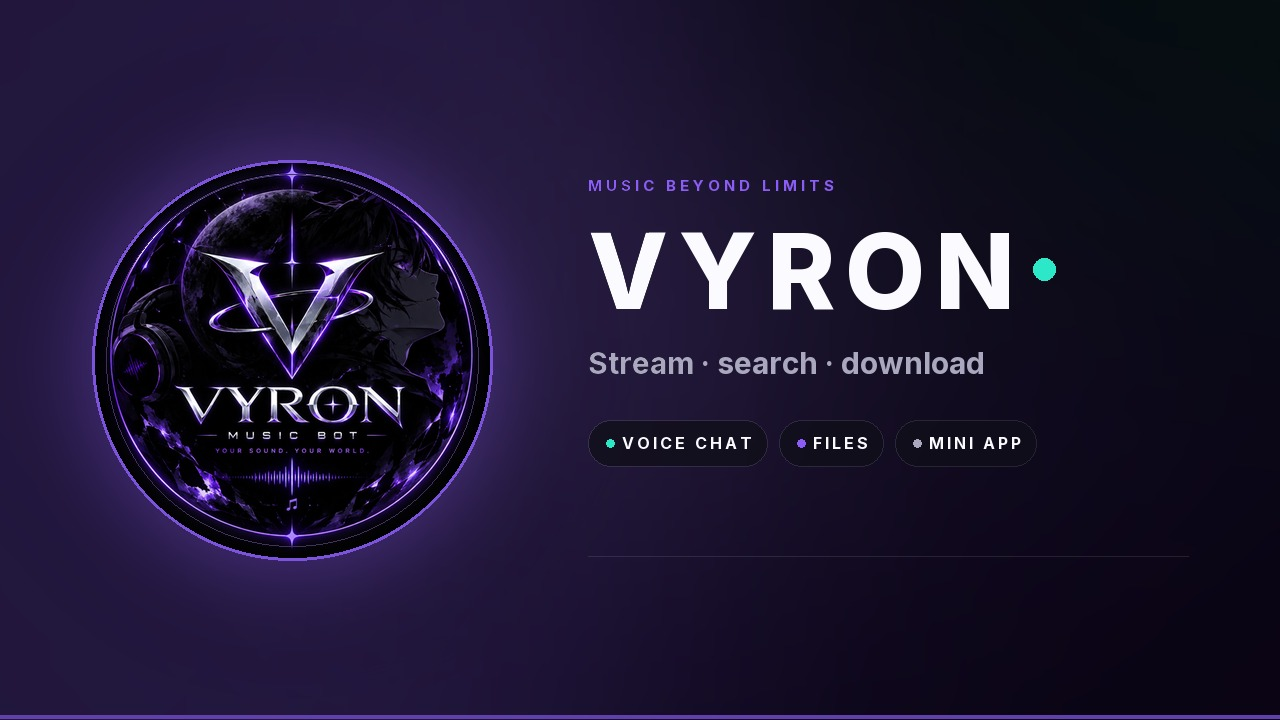
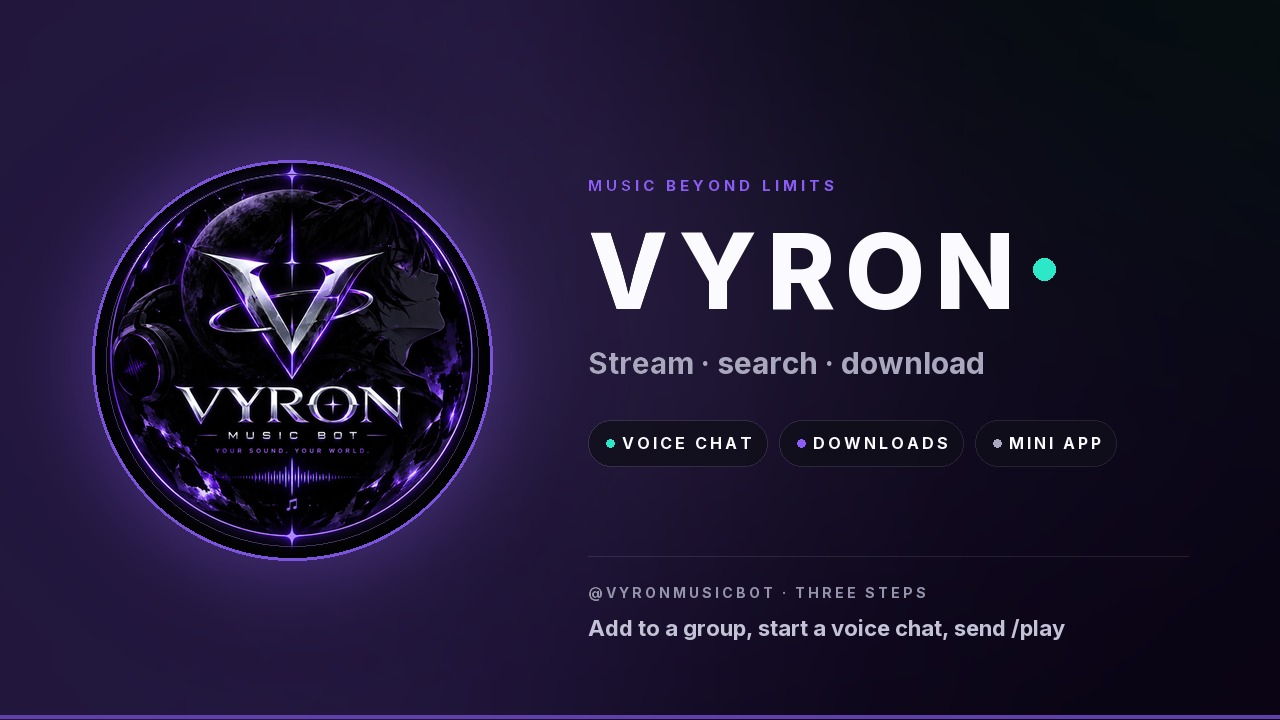
copy(ui): the hero stops advertising a mode we removed, and the caption stops guessing
- The `/start` hero still had a "FILES" chip from the file-fallback era. It says
  DOWNLOADS now, and the empty half of the image carries the handle and the
  three steps instead of a bare hairline.
- The now-playing caption's last line was `100% · 2 queued`. A bare percentage
  after a duration reads like a bitrate. Every flag now names itself
  (`🔊 100%`, `🔁 All`, `⏱ 24/7`) and volume 0 says "muted" instead of
  disappearing.

diff --git a/vyron/utils/brandart.py b/vyron/utils/brandart.py
@@ -139,7 +139,7 @@ def start_image() -> bytes | None:
         )
 
         # ── feature chips ──────────────────────────────────────────────────
-        chips = (("VOICE CHAT", TEAL), ("FILES", VIOLET), ("MINI APP", MUTED))
+        chips = (("VOICE CHAT", TEAL), ("DOWNLOADS", VIOLET), ("MINI APP", MUTED))
         chip_y = 420
         cursor = text_x
         for label, colour in chips:
@@ -158,6 +158,20 @@ def start_image() -> bytes | None:
 
         # ── hairline + handle ──────────────────────────────────────────────
         draw.line([(text_x, 556), (W - 92, 556)], fill=(255, 255, 255, 26), width=1)
+        _letterspaced(
+            draw,
+            (text_x, 584),
+            "@VYRONMUSICBOT · THREE STEPS",
+            font(14, 600, "@VYRONMUSICBOT"),
+            (150, 148, 172),
+            3,
+        )
+        draw.text(
+            (text_x, 614),
+            "Add to a group, start a voice chat, send /play",
+            font=font(22, 500, "Add to a group"),
+            fill=(196, 194, 214),
+        )
 
         canvas = Image.alpha_composite(canvas, layer).convert("RGB")
         edge = ImageDraw.Draw(canvas)

diff --git a/vyron/ui/cards.py b/vyron/ui/cards.py
@@ -393,9 +393,12 @@ def now_playing_caption(state: ChatState, catalog=None) -> str:
     requester = _requester(track)
     if requester:
         lines.append(f"{E('user')} {requester}")
+    # A bare "100%" at the end of a caption reads like a download figure, so
+    # every flag now says what it is, and mute gets a word instead of a zero.
     flags = [
-        state.volume and f"{state.volume}%",
-        "24/7" if state.always_on else "",
+        f"{E('volume')} {int(state.volume)}%" if state.volume else f"{E('mute')} muted",
+        f"{E('loop')} {state.loop.label}" if getattr(state.loop, "value", "off") != "off" else "",
+        f"{E('clock')} 24/7" if state.always_on else "",
         label("np.queued", "{count} queued", count=len(state.queue)) if state.queue else "",
     ]
     tail = " · ".join(flag for flag in flags if flag)
